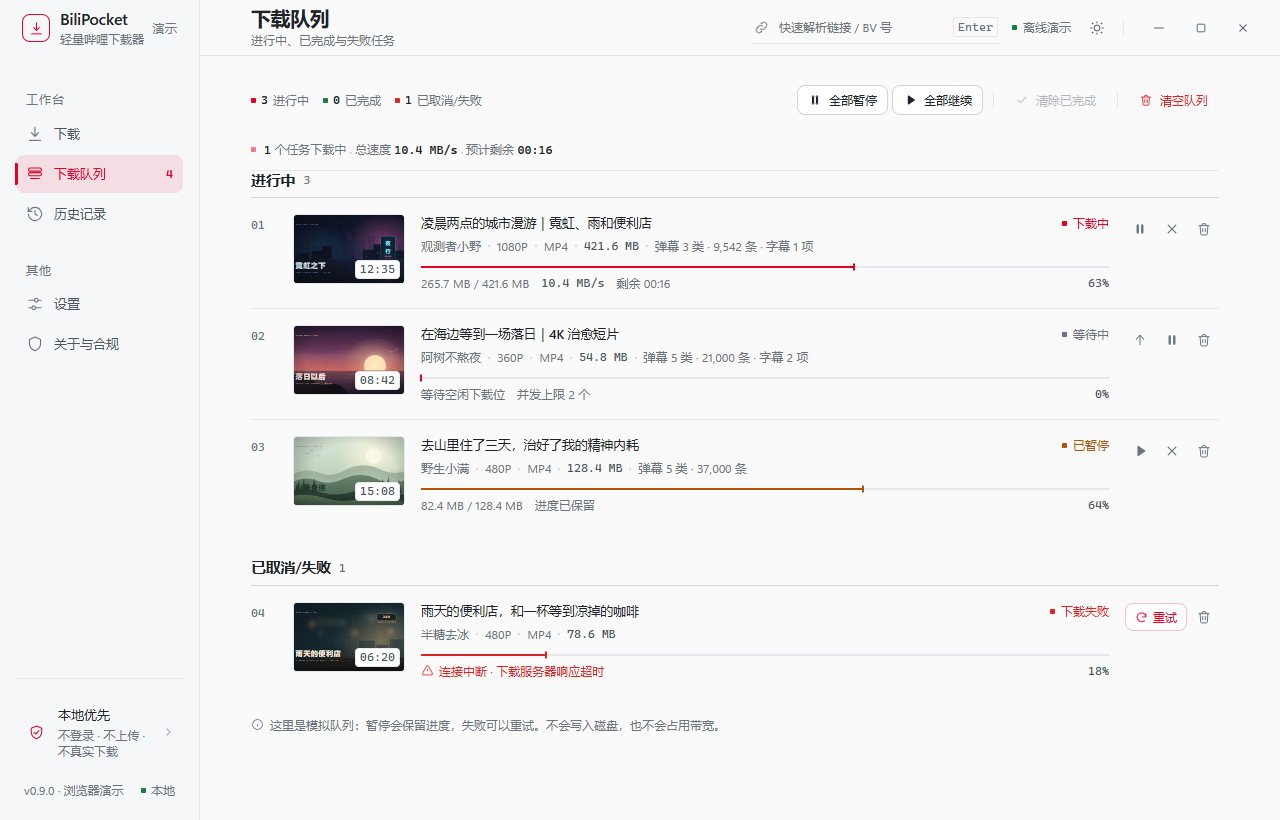
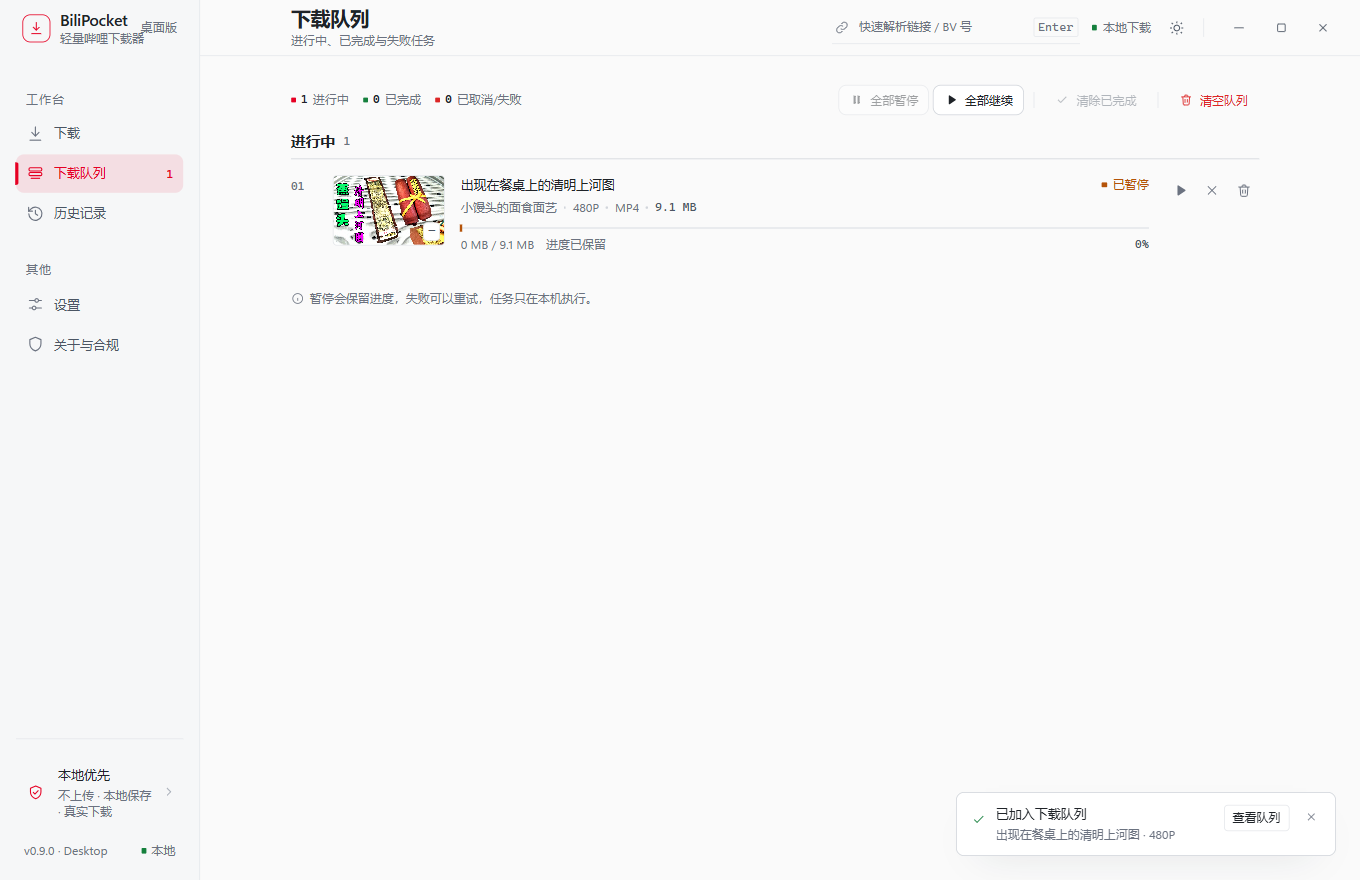
docs: real screenshots from the desktop app and a plainer readme
- replace all five screenshots with captures from the desktop build parsing a real video
- fix the queue hint that still said it was a simulated queue with no disk writes
- rewrite the prose so it reads like a person wrote it

diff --git a/src/index.html b/src/index.html
@@ -447,7 +447,7 @@
               <div id="queue-content"></div>
               <p class="inline-note">
                 <svg class="icon" aria-hidden="true"><use href="#i-info"></use></svg>
-                这里是模拟队列：暂停会保留进度，失败可以重试。不会写入磁盘，也不会占用带宽。
+                暂停会保留进度，失败可以重试，任务只在本机执行。
               </p>
             </section>
 
